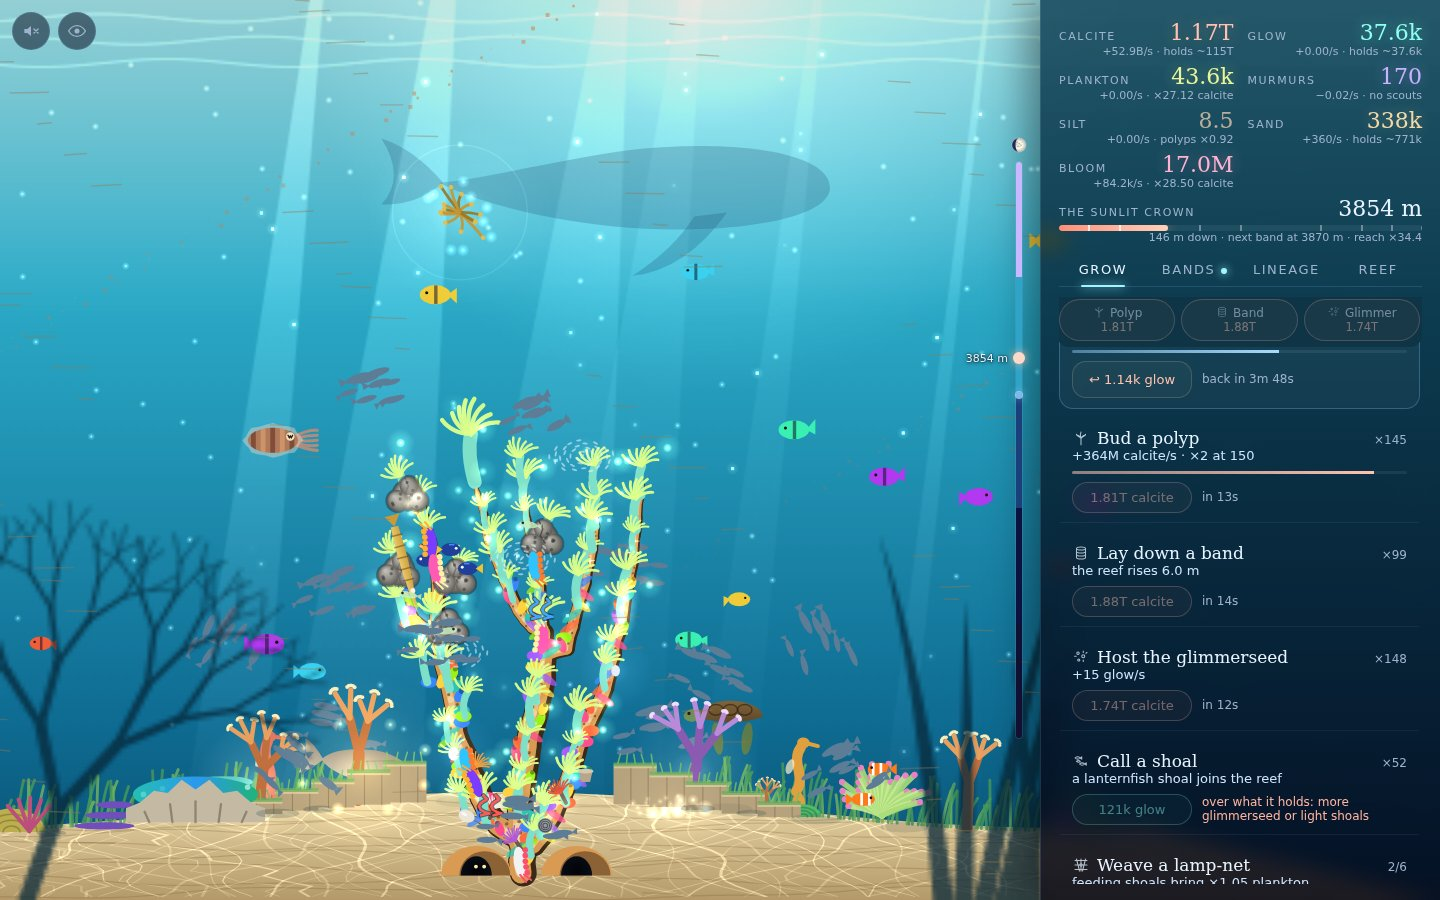
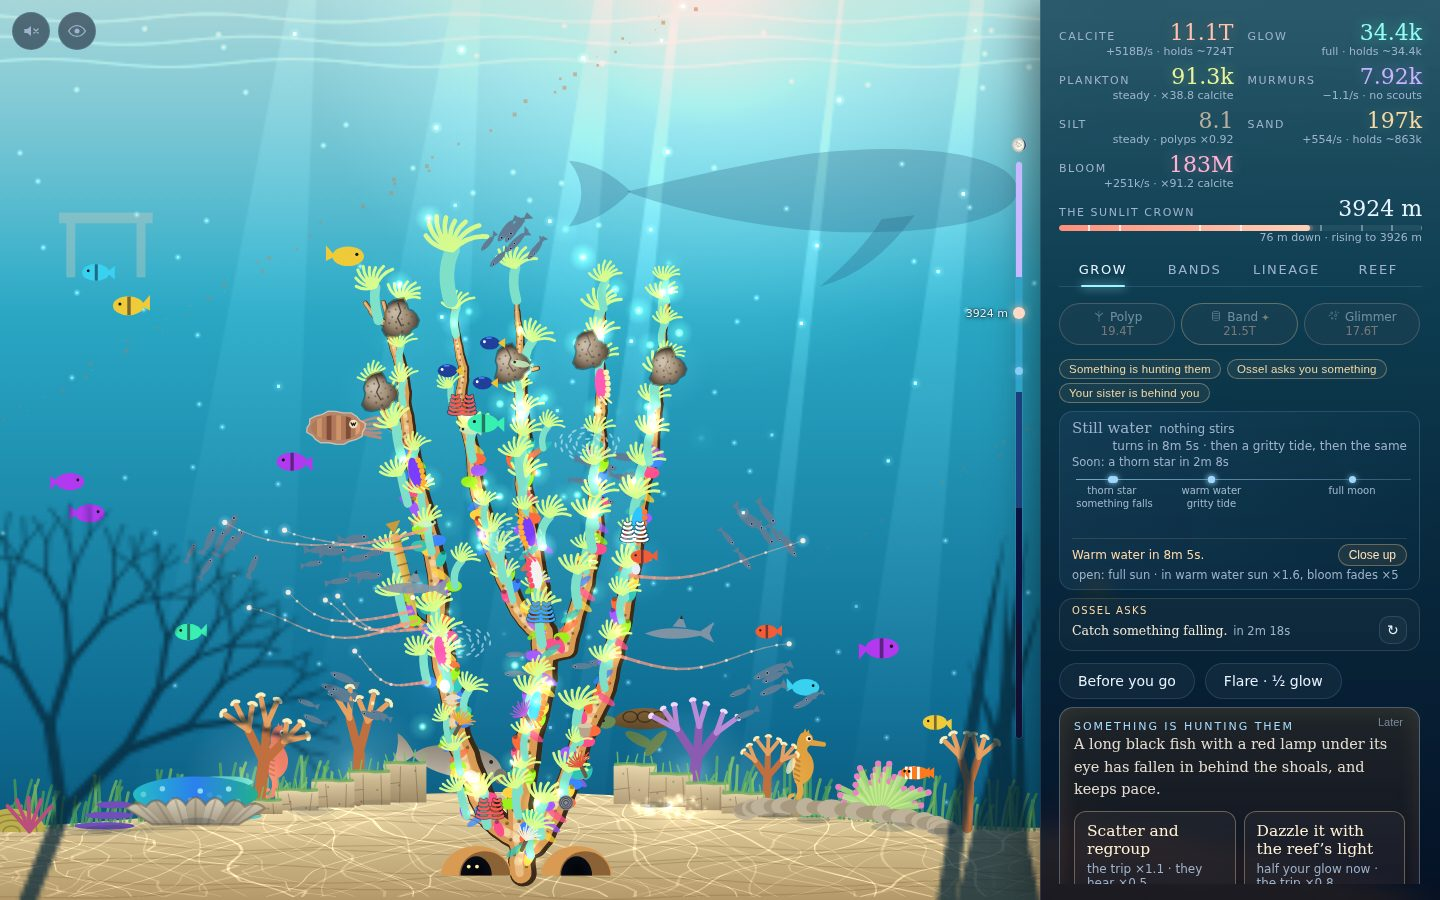
README: panel and phone shots retaken

diff --git a/docs/PROGRESS.md b/docs/PROGRESS.md
@@ -1117,4 +1117,4 @@ date, what landed, what is half-done, what's next.
 - Warm water at the Breach drew nine evenly spaced wavy lines across the whole picture, the night sky included: scan lines. Its shimmer is short wavering strands under the surface only, rising slowly and fading in and out.
 - The shore bird lifting off the crown at the release was a stroked "M" like the old gull: filled pointed wings bent at the wrist, a head and bill.
 - Fuzz after the last drawing changes: tiny phone at the Breach, landscape at the Twilight, desktop after the ending; ~1,270 actions, no errors. Smoke, systems and finale e2e green.
-- README scene images (docs/readme/*.jpg: Silt Floor, Midnight Water, Twilight Shelf, Sunlit Crown, Breach, full moon) and the link preview (src/client/icons/share.jpg) retaken with tonight's art; the old ones showed the grape-cluster stones, the "oooo" jellies and the glitter ladder. (The panel/phone shots in docs/readme are unchanged.)
+- README scene images (docs/readme/*.jpg: Silt Floor, Midnight Water, Twilight Shelf, Sunlit Crown, Breach, full moon) and the link preview (src/client/icons/share.jpg) retaken with tonight's art; the old ones showed the grape-cluster stones, the "oooo" jellies and the glitter ladder. The desktop panel and phone shots too.
